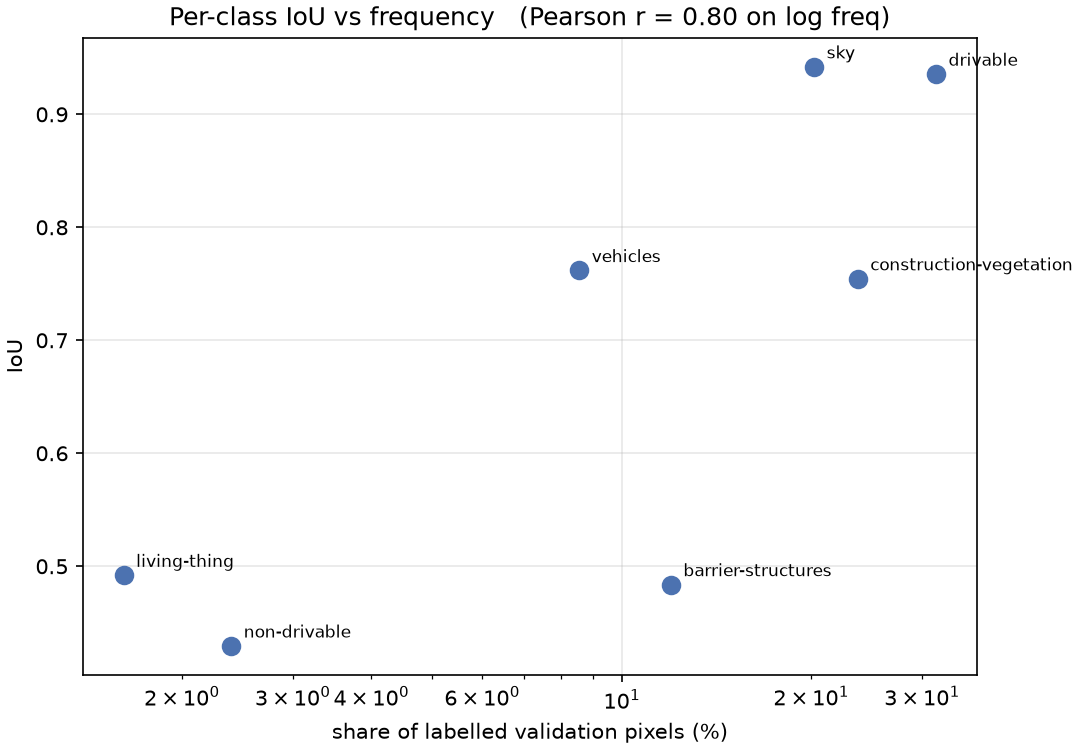
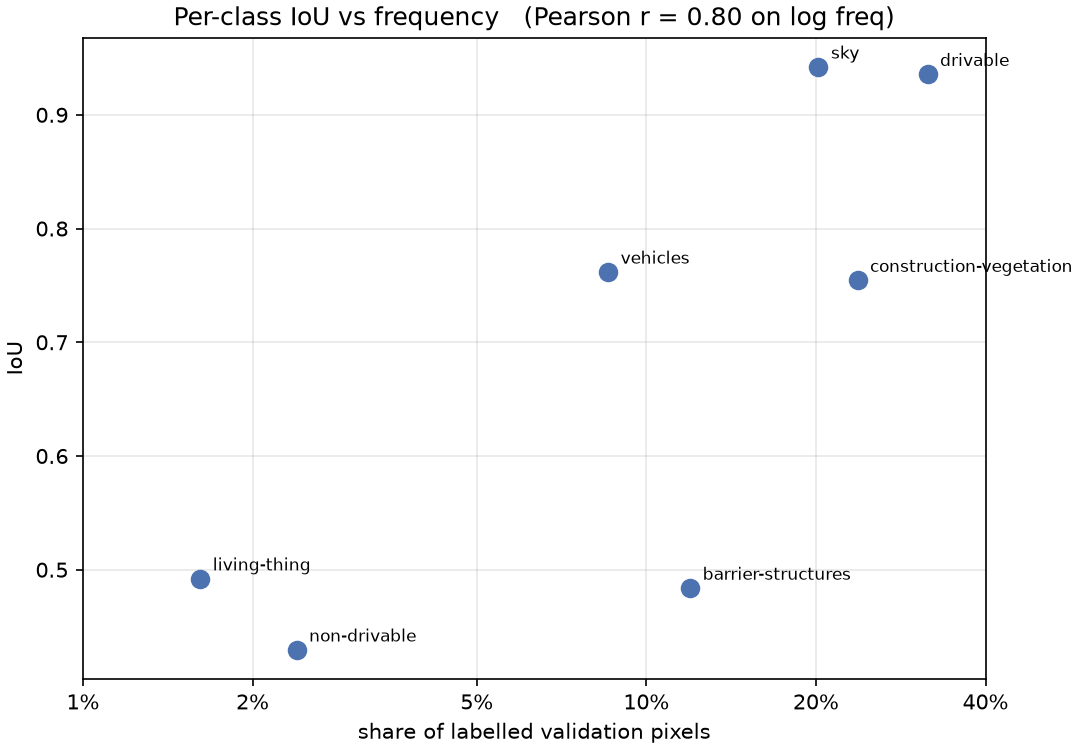
Polish figures and fix remaining grad-tensor scalar conversion
- corruption_degradation: integer severity ticks (matplotlib drew 1.5/2.5).
- iou_vs_frequency: plain percent tick labels instead of '2 x 10^0'.
- train: detach before .item() in the TensorBoard step logger.

First real robustness numbers: against a clean 0.6862 mIoU, label-free
test-time BatchNorm adaptation recovers +0.279 mIoU under severe gaussian
noise (0.341 -> 0.620, ~82% of the loss) and +0.096 under severe rain. At
severity 1, where there is little real shift, adaptation slightly hurts --
re-estimating BN statistics on 204 images adds noise.

Calibration: model is overconfident at T=1.229; temperature scaling cuts ECE
0.0211 -> 0.0027 (-87%) on held-out pixels.

Error analysis: per-class IoU correlates with log class frequency at r=0.80,
but barrier-structures is an outlier -- 11.2% of pixels at 0.48 IoU, hard
because it is semantically ambiguous with construction-vegetation rather
than because it is rare.

diff --git a/evaluation/error_analysis.py b/evaluation/error_analysis.py
@@ -204,7 +204,13 @@ def plot_iou_vs_frequency(report: dict[str, Any], out_path: str | Path) -> Path:
         correlation = np.corrcoef(np.log10(frequency[valid]), iou[valid])[0, 1]
         ax.set_title(f"Per-class IoU vs frequency   (Pearson r = {correlation:.2f} on log freq)")
     ax.set_xscale("log")
-    ax.set_xlabel("share of labelled validation pixels (%)")
+    # Matplotlib's default log formatter renders "2 x 10^0" for percentages, which is
+    # unreadable here; the range is narrow enough for plain decimal labels.
+    ticks = [1, 2, 5, 10, 20, 40]
+    ax.set_xticks(ticks)
+    ax.set_xticklabels([f"{t}%" for t in ticks])
+    ax.minorticks_off()
+    ax.set_xlabel("share of labelled validation pixels")
     ax.set_ylabel("IoU")
     ax.grid(alpha=0.3, zorder=0)
 

diff --git a/evaluation/corruption_eval.py b/evaluation/corruption_eval.py
@@ -223,6 +223,9 @@ def plot_degradation(csv_path: str | Path, out_path: str | Path) -> Path:
                     color="#4C72B0", ms=4, label="+ BN adapt")
         ax.set_title(name, fontsize=10)
         ax.set_ylim(0, max(0.05, clean * 1.15))
+        # Severity is an integer level; matplotlib's default locator would otherwise
+        # draw meaningless half-severities like 1.5.
+        ax.set_xticks(sorted(subset["severity"].unique()))
         ax.grid(alpha=0.25)
     for ax in axes[len(names):]:
         ax.axis("off")

diff --git a/modeling/train.py b/modeling/train.py
@@ -145,7 +145,7 @@ def train_one_epoch(
         count += 1
         global_step += 1
         if log is not None and global_step % 20 == 0:
-            log.scalar("train/loss_step", float(loss), global_step)
+            log.scalar("train/loss_step", loss.detach().item(), global_step)
             log.scalar("train/lr", scheduler.get_last_lr()[0], global_step)
 
     return (running / max(1, count)), global_step
